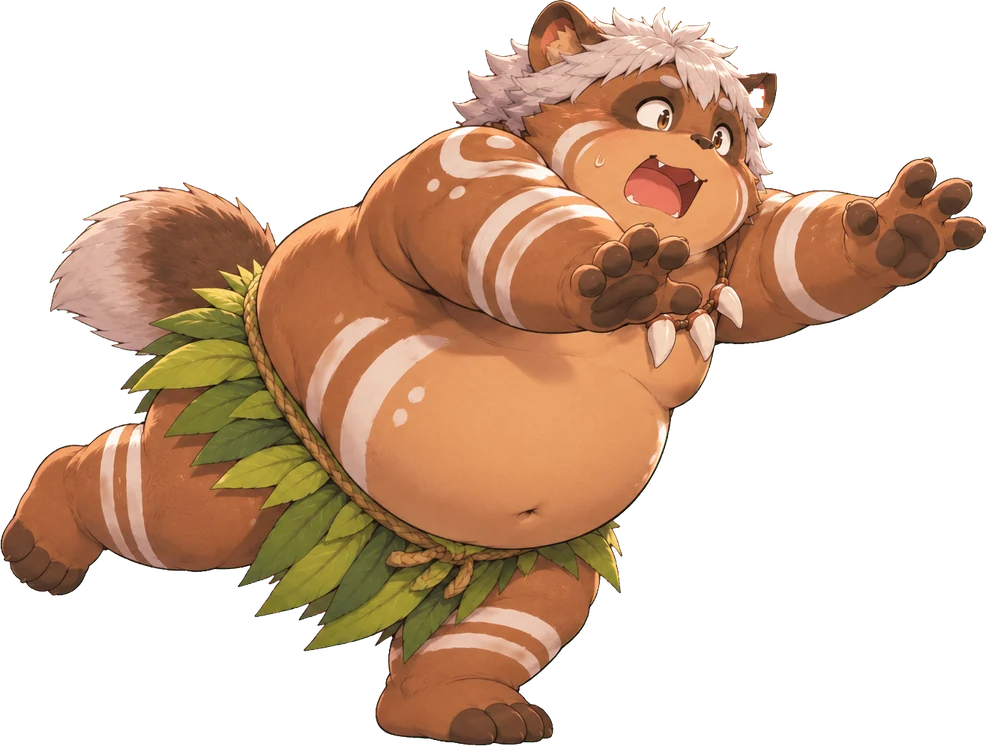
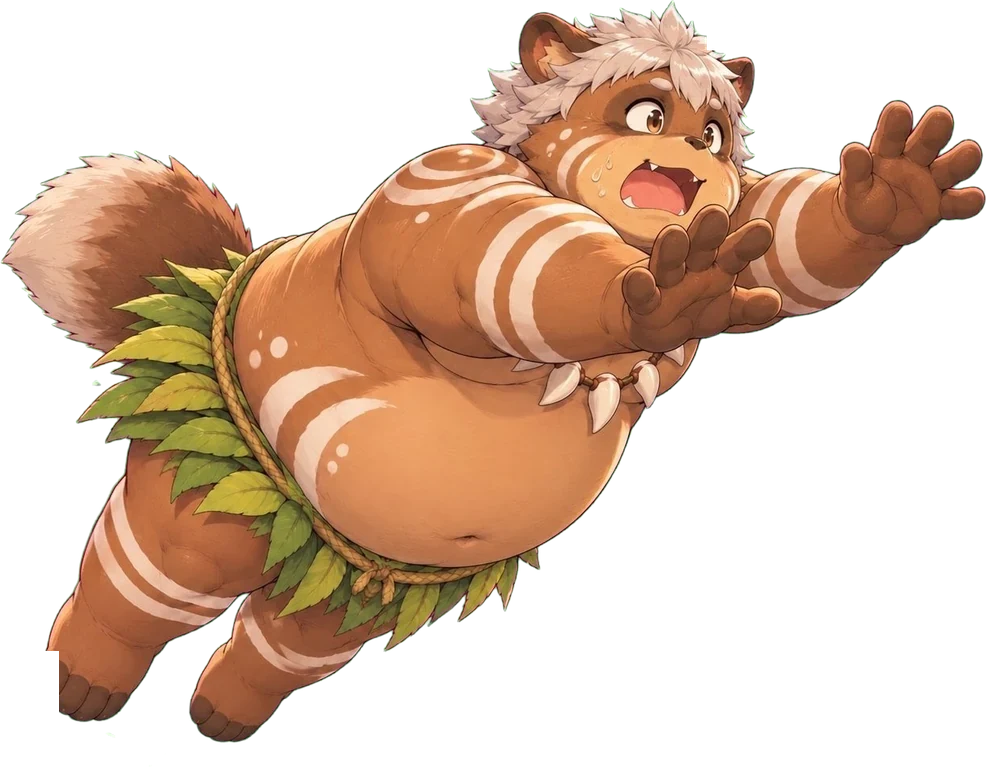
第3章：飛びつきの絵を作り直し版に差し替え（指の数を直した版・汗と砂けむりの記号は消した）
Claude-Session: https://claude.ai/code/session_01DyLyAhjCXoeXSU6B5U8hyR

diff --git a/tanukun/rally_story/index.html b/tanukun/rally_story/index.html
@@ -67,7 +67,7 @@ body{margin:0;background:#2a1a10;color:var(--ink);font-family:var(--display);ove
   transition:left .45s ease-in,transform .45s cubic-bezier(.5,0,.9,.6)}
 /* 飛びつく：立ち絵を消して、飛びつきの絵（右向き・反転しない）が跳ねて右下の画面の外へ */
 #tanu.dive{opacity:0 !important;transition:none}
-#dive{position:absolute;left:30%;bottom:4%;height:64%;aspect-ratio:986/746;transform:translateX(-50%);opacity:0;z-index:4;pointer-events:none}
+#dive{position:absolute;left:30%;bottom:4%;height:64%;aspect-ratio:986/767;transform:translateX(-50%);opacity:0;z-index:4;pointer-events:none}
 #dive img{height:100%;width:auto;display:block}
 #dive.go{opacity:1;animation:dive2 1.05s cubic-bezier(.4,0,.8,.6) forwards}
 @keyframes dive2{0%{transform:translateX(-50%) translateY(6%) scale(.92)}
